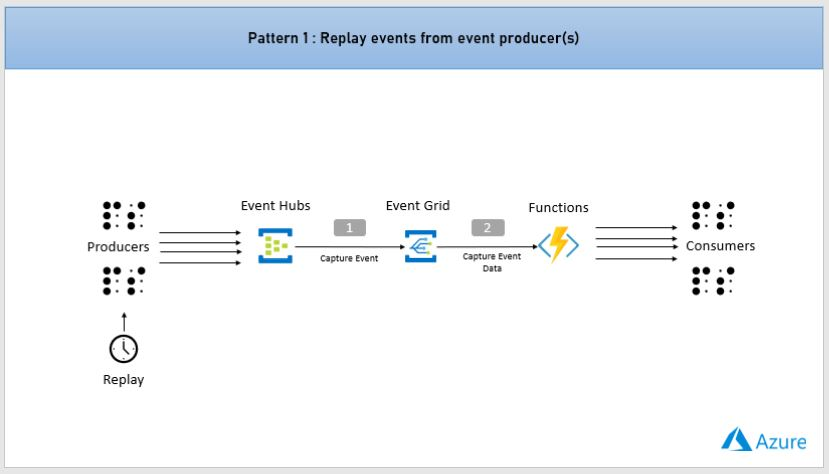
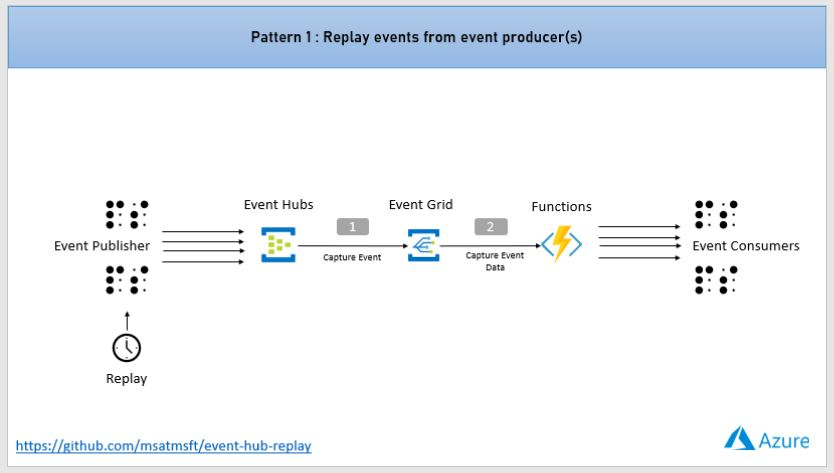
updated readme with images

diff --git a/README.md b/README.md
@@ -1,8 +1,24 @@
 # event-hub-replay
 Solution architecture and source code for azure event hub message reply using event hub capture to azure storage account
 
-### Replay Pattern 1 
+Often times distributed systems need to perfrom replay of events that happend in past. One of many reasons could be re-processing events with new business logic.
+
+`Event Hubs Standard tier currently supports a maximum retention period of 7 (seven) days. If you need to replay the event beyond standard retention period, following  two patterns emerges.`
+
+### Event Replay Pattern 1 
+
+In this pattern, essentially we are going back to event publishers and re-publishing the events. Events pass through the rest of the pipleline and now you have applied updated business logic (in event consumer, e.g. azure function) to the event data. Event Producers can be other stream processing platforms like apache kafka or apps.
+
 ![alt text](https://raw.githubusercontent.com/msatmsft/event-hub-replay/master/img/replay_pattern1.JPG)
 
-### Replay Pattern 2
+` There is no source code for pattern 1 as it explains the idea conceptually.`
+
+### Event Replay Pattern 2
+
+In pattern 2 we are enabling Event Hub feature called Capture. It automatically captures the streaming data in Azure Blob storage of your choice with flexibility of specifying a time or size interval.Captured data is written in Apache Avro format: a compact, fast, binary format that provides rich data structures with inline schema.
+
+`Enabling Capture incurs a charge based on your purchased throughput units.`
+
 ![alt text](https://raw.githubusercontent.com/msatmsft/event-hub-replay/master/img/replay_pattern2.JPG)
+
+` The source code for pattern 2 is located in \src.`
